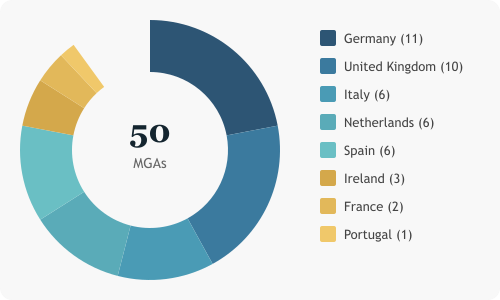
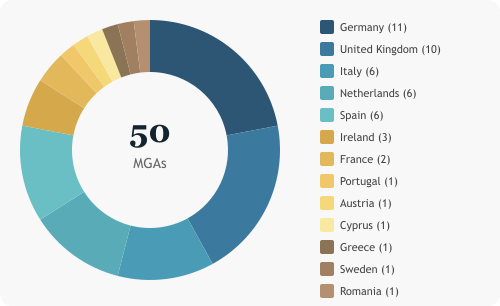
Show all countries in chart legend, remove +more text

diff --git a/app/member-portal/bulletin/february-2026/page.tsx b/app/member-portal/bulletin/february-2026/page.tsx
@@ -38,10 +38,17 @@ const CHART_COLORS = [
   '#D4A84B', '#E2B85A', '#F0C86A', '#F5D87A', '#F8E8A0',
 ];
 
+// Extended color palette for all countries
+const EXTENDED_COLORS = [
+  '#2D5574', '#3B7A9E', '#4A9BB5', '#5AABB8', '#6ABFC4',
+  '#D4A84B', '#E2B85A', '#F0C86A', '#F5D87A', '#F8E8A0',
+  '#8B7355', '#A08060', '#B59070'
+];
+
 // Donut Chart Component
 function DonutChart({ data, centerLabel, size = 160 }: { data: Record<string, number>; centerLabel: string; size?: number }) {
   const total = Object.values(data).reduce((a, b) => a + b, 0);
-  const sorted = Object.entries(data).sort((a, b) => b[1] - a[1]).slice(0, 8);
+  const sorted = Object.entries(data).sort((a, b) => b[1] - a[1]); // Show ALL countries
   if (sorted.length === 0 || total === 0) return null;
 
   const radius = size / 2 - 8;
@@ -72,11 +79,11 @@ function DonutChart({ data, centerLabel, size = 160 }: { data: Record<string, nu
     const largeArc = angle > 180 ? 1 : 0;
     const path = `M ${x1} ${y1} A ${radius} ${radius} 0 ${largeArc} 1 ${x2} ${y2} L ${x1Inner} ${y1Inner} A ${innerRadius} ${innerRadius} 0 ${largeArc} 0 ${x2Inner} ${y2Inner} Z`;
 
-    return { path, color: CHART_COLORS[index % CHART_COLORS.length], label, count, percentage };
+    return { path, color: EXTENDED_COLORS[index % EXTENDED_COLORS.length], label, count, percentage };
   });
 
   return (
-    <div className="flex items-center gap-6">
+    <div className="flex items-start gap-6">
       <svg width={size} height={size} className="flex-shrink-0">
         {segments.map((seg, i) => (
           <path key={i} d={seg.path} fill={seg.color} className="hover:opacity-80 transition-opacity">
@@ -86,17 +93,14 @@ function DonutChart({ data, centerLabel, size = 160 }: { data: Record<string, nu
         <text x={center} y={center - 4} textAnchor="middle" className="text-xl font-bold" fill="#1a365d">{total}</text>
         <text x={center} y={center + 12} textAnchor="middle" className="text-[10px]" fill="#6b7280">{centerLabel}</text>
       </svg>
-      <div className="flex-1 space-y-1.5">
-        {segments.slice(0, 5).map((seg, i) => (
-          <div key={i} className="flex items-center gap-2 text-sm">
-            <div className="w-2.5 h-2.5 rounded-sm flex-shrink-0" style={{ backgroundColor: seg.color }} />
+      <div className="flex-1 space-y-1">
+        {segments.map((seg, i) => (
+          <div key={i} className="flex items-center gap-2 text-xs">
+            <div className="w-2 h-2 rounded-sm flex-shrink-0" style={{ backgroundColor: seg.color }} />
             <span className="text-gray-600 truncate">{seg.label}</span>
-            <span className="ml-auto text-gray-800 font-medium">{seg.percentage.toFixed(0)}%</span>
+            <span className="ml-auto text-gray-800 font-medium">{seg.count}</span>
           </div>
         ))}
-        {sorted.length > 5 && (
-          <div className="text-xs text-gray-400 pl-4">+{sorted.length - 5} more</div>
-        )}
       </div>
     </div>
   );
@@ -129,9 +133,6 @@ function BarChart({ data, total, maxItems = 8 }: { data: Record<string, number>;
           </div>
         );
       })}
-      {Object.keys(data).length > maxItems && (
-        <div className="text-xs text-gray-400 text-center pt-1">+{Object.keys(data).length - maxItems} more lines</div>
-      )}
     </div>
   );
 }

diff --git a/scripts/generate-mga-charts.ts b/scripts/generate-mga-charts.ts
@@ -143,7 +143,7 @@ async function fetchMgaStats(): Promise<MgaStats> {
 
 function generateDonutChartSVG(data: Record<string, number>, centerLabel: string, size = 300): string {
   const total = Object.values(data).reduce((a, b) => a + b, 0);
-  const sorted = Object.entries(data).sort((a, b) => b[1] - a[1]).slice(0, 8);
+  const sorted = Object.entries(data).sort((a, b) => b[1] - a[1]); // Show ALL countries
 
   if (sorted.length === 0 || total === 0) {
     return '<svg></svg>';
@@ -156,6 +156,13 @@ function generateDonutChartSVG(data: Record<string, number>, centerLabel: string
   let currentAngle = -90;
   const segments: string[] = [];
   const legend: string[] = [];
+
+  // Extended color palette for all 13 countries
+  const extendedColors = [
+    '#2D5574', '#3B7A9E', '#4A9BB5', '#5AABB8', '#6ABFC4',
+    '#D4A84B', '#E2B85A', '#F0C86A', '#F5D87A', '#F8E8A0',
+    '#8B7355', '#A08060', '#B59070'
+  ];
 
   sorted.forEach(([label, count], index) => {
     const percentage = (count / total) * 100;
@@ -177,7 +184,7 @@ function generateDonutChartSVG(data: Record<string, number>, centerLabel: string
     const y4 = center + innerRadius * Math.sin(startRad);
 
     const largeArc = angle > 180 ? 1 : 0;
-    const color = CHART_COLORS[index % CHART_COLORS.length];
+    const color = extendedColors[index % extendedColors.length];
 
     segments.push(`
       <path
@@ -186,20 +193,22 @@ function generateDonutChartSVG(data: Record<string, number>, centerLabel: string
       />
     `);
 
-    // Legend item
+    // Legend item - smaller font size to fit all
     legend.push(`
-      <g transform="translate(${size + 20}, ${30 + index * 28})">
-        <rect width="16" height="16" fill="${color}" rx="2" />
-        <text x="24" y="13" font-family="'Trebuchet MS', Helvetica, sans-serif" font-size="13" fill="#444444">${escapeXml(label)} (${count})</text>
+      <g transform="translate(${size + 20}, ${20 + index * 22})">
+        <rect width="14" height="14" fill="${color}" rx="2" />
+        <text x="20" y="11" font-family="'Trebuchet MS', Helvetica, sans-serif" font-size="11" fill="#444444">${escapeXml(label)} (${count})</text>
       </g>
     `);
   });
 
+  const legendHeight = 20 + sorted.length * 22;
+  const chartHeight = Math.max(size, legendHeight);
   const totalWidth = size + 200;
 
   return `
-    <svg width="${totalWidth}" height="${size}" xmlns="http://www.w3.org/2000/svg">
-      <rect width="${totalWidth}" height="${size}" fill="#f8f8f8" rx="12" />
+    <svg width="${totalWidth}" height="${chartHeight}" xmlns="http://www.w3.org/2000/svg">
+      <rect width="${totalWidth}" height="${chartHeight}" fill="#f8f8f8" rx="12" />
       ${segments.join('')}
       <text x="${center}" y="${center - 8}" text-anchor="middle" font-family="Georgia, serif" font-size="32" font-weight="bold" fill="#14252f">${total}</text>
       <text x="${center}" y="${center + 18}" text-anchor="middle" font-family="'Trebuchet MS', Helvetica, sans-serif" font-size="14" fill="#666666">${centerLabel}</text>
